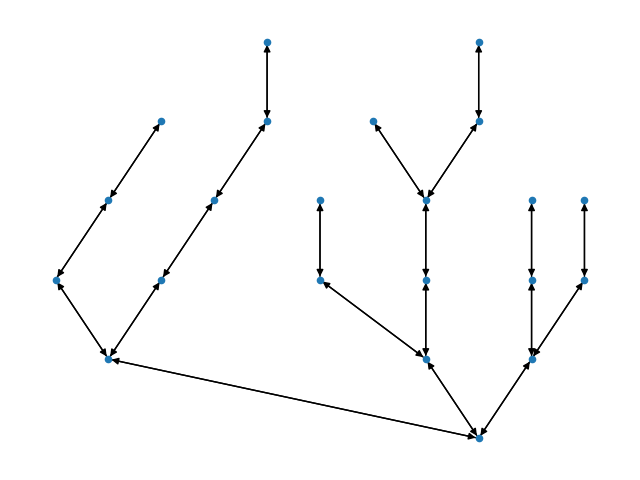
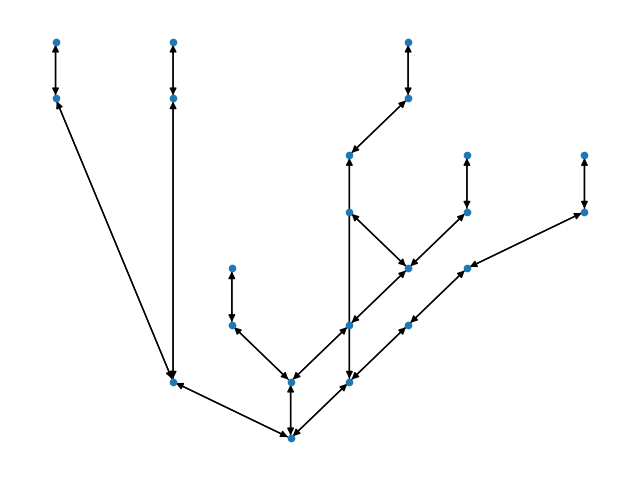
Add dummy vertices optimization

diff --git a/2/main.py b/2/main.py
@@ -14,7 +14,6 @@ class Node:
         self.__neighbors: Set[Node] = set()
         self.val: str = val
         self.level: int = -1
-        self.x: int = -1
         self.enumVal : float = DEFAULT_ENUMVAL
 
     def addNode(self, child):
@@ -23,7 +22,76 @@ class Node:
             child.__neighbors.add(self)
 
     def getNeighbors(self):
-        return self.__neighbors
+        return self.__neighbors        
+
+    def getChildren(self) -> list:
+        children : list = list()
+        for node in self.__neighbors:
+            if(node.level > self.level):
+                children.append(node)
+        return children
+
+
+    def getDummyNodesGenerated(self, sameLevelNode):
+        if self.level != sameLevelNode.level:
+            return 0
+        bNodeInArgPlacedOnTheLeft : bool = sameLevelNode.enumVal <= self.enumVal
+        
+        argNodeChildren : list = sameLevelNode.getChildren()
+        currentNodeChildren : list = self.getChildren()
+
+        dummyNodesGenerated : int = 0
+
+        for child in currentNodeChildren:
+            childX : int = child.enumVal
+
+            for argChild in argNodeChildren:
+                argChildX : int = argChild.enumVal
+
+                if bNodeInArgPlacedOnTheLeft:
+                    if argChildX >= childX:
+                        dummyNodesGenerated += 1
+                else: # on the right
+                    if argChildX <= childX:
+                        dummyNodesGenerated += 1
+
+        return dummyNodesGenerated
+
+    def getDummyNodeTotalNumber(self, newCoord, sameLevelNodes : list):
+        dummyNodesNum = 0
+        oldCoord = self.enumVal
+        self.enumVal = newCoord
+        for node in sameLevelNodes:
+            if self.enumVal == node.enumVal:
+                continue
+            dummyNodesNum += self.getDummyNodesGenerated(node) + abs(self.level - node.level) - 1
+        self.enumVal = oldCoord
+        return dummyNodesNum
+
+
+    def dummyToggle(self, takenKoords : set, sameLevelNodes : list):
+        takenKoords.remove(self.enumVal)
+        bestIResults = (self.enumVal, self.getDummyNodeTotalNumber(self.enumVal, sameLevelNodes))
+
+        for i in range(-W*10, W*10):
+            if self.enumVal + i in takenKoords:
+                continue
+            res : int = self.getDummyNodeTotalNumber(self.enumVal + i, sameLevelNodes)
+            if bestIResults[1] < res:
+                if bestIResults[0] in takenKoords:
+                    takenKoords.remove(bestIResults[0])
+                bestIResults = (self.enumVal + i, res)
+                takenKoords.add(bestIResults[0])
+
+            if bestIResults[1] == res and abs(self.enumVal + i) < abs(bestIResults[0]):
+                if bestIResults[0] in takenKoords:
+                    takenKoords.remove(bestIResults[0])
+                bestIResults = (self.enumVal + i, res)
+                takenKoords.add(bestIResults[0])
+
+        self.enumVal = bestIResults[0]
+        takenKoords.add(self.enumVal)
+
 
     def toggle(self, visited : set, takenKoords : set):
         if self in visited:
@@ -39,14 +107,16 @@ class Node:
         takenKoords.add((self.level, self.enumVal))
         bestKoord : int = int(median(neighVals))
         i : int = 0
+        # prevent collisions
         while (self.level, bestKoord + i) in takenKoords and (self.level, bestKoord - i) in takenKoords:
             i+=1
-        if (self.level, bestKoord + i) not in takenKoords:
-            self.enumVal = bestKoord + i
-            takenKoords.add((self.level, self.enumVal))
-        elif (self.level, bestKoord - i) not in takenKoords:
-            self.enumVal = bestKoord - i
-            takenKoords.add((self.level, self.enumVal))
+        
+        # choose empty one
+        finalBestCoord = bestKoord + i
+        if (self.level, bestKoord + i) in takenKoords:
+            finalBestCoord = bestKoord - i
+        self.enumVal = finalBestCoord
+        takenKoords.add((self.level, self.enumVal))
 
         for node in self.__neighbors:
             node.toggle(visited, takenKoords)
@@ -90,6 +160,7 @@ class Graph:
         self.root: Node = root
         self.nodes: Set[Node] = set()
         self.sortedEnumeratedNodeList : List[Node] = list()
+        self.levels : Dict[int, List[Node]] = dict()
 
     def parseGraphFromFile(self, graph_desctiption_filepath: str):
         parser = pygraphml.GraphMLParser()
@@ -100,7 +171,22 @@ class Graph:
         for rawNode in rawNodes:
             self.__insertNode(None, rawNode)
         self.__startEnumerate()
-        for i in range(10000):
+        for i in range(100):
+            toggled : Set[Node] = set()
+            takenKoords : set = set()
+            for node in self.nodes:
+                node.toggle(toggled, takenKoords)
+        
+        for i in range(10):
+            for level in self.levels:
+                takenKoords = set()
+                for node in self.levels[level]:
+                    takenKoords.add(node.enumVal)
+                for node in self.levels[level]:
+                    node.dummyToggle(takenKoords, self.levels[node.level])
+        
+        
+        for i in range(100):
             toggled : Set[Node] = set()
             takenKoords : set = set()
             for node in self.nodes:
@@ -131,12 +217,14 @@ class Graph:
                     continue
                 if level not in levelVacants:
                     levelVacants[level] = W
+                    self.levels[level] : List[Node] = list()
 
                 if levelVacants[level] == 0:
                     q.put((level + 1, n))
                     continue
                 levelVacants[level] -= 1
                 n.level = level
+                self.levels[level].append(n)
                 maxlevel = max(maxlevel, level)
                 for neighbor in n.getNeighbors():
                     q.put((level + 1, neighbor))
